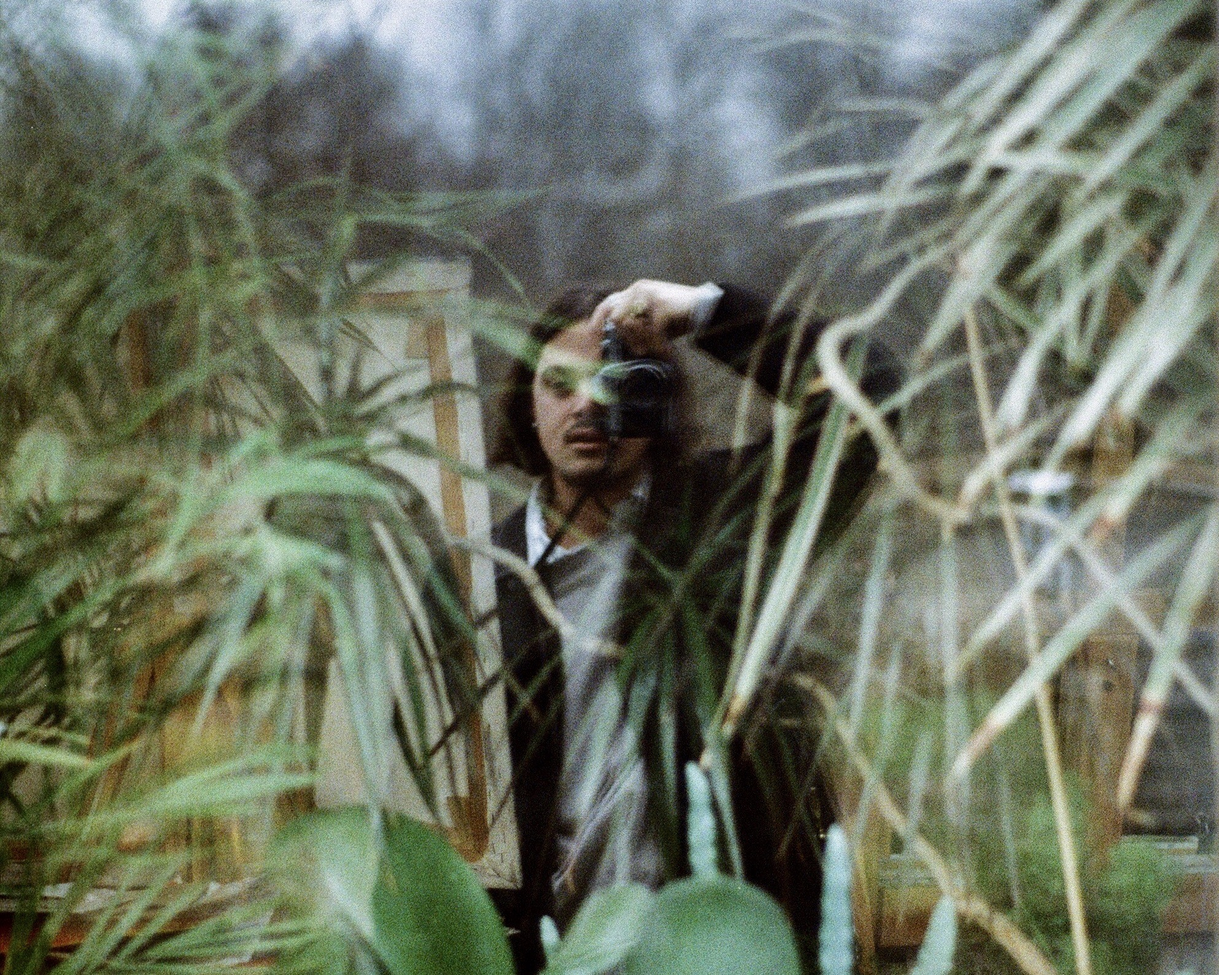
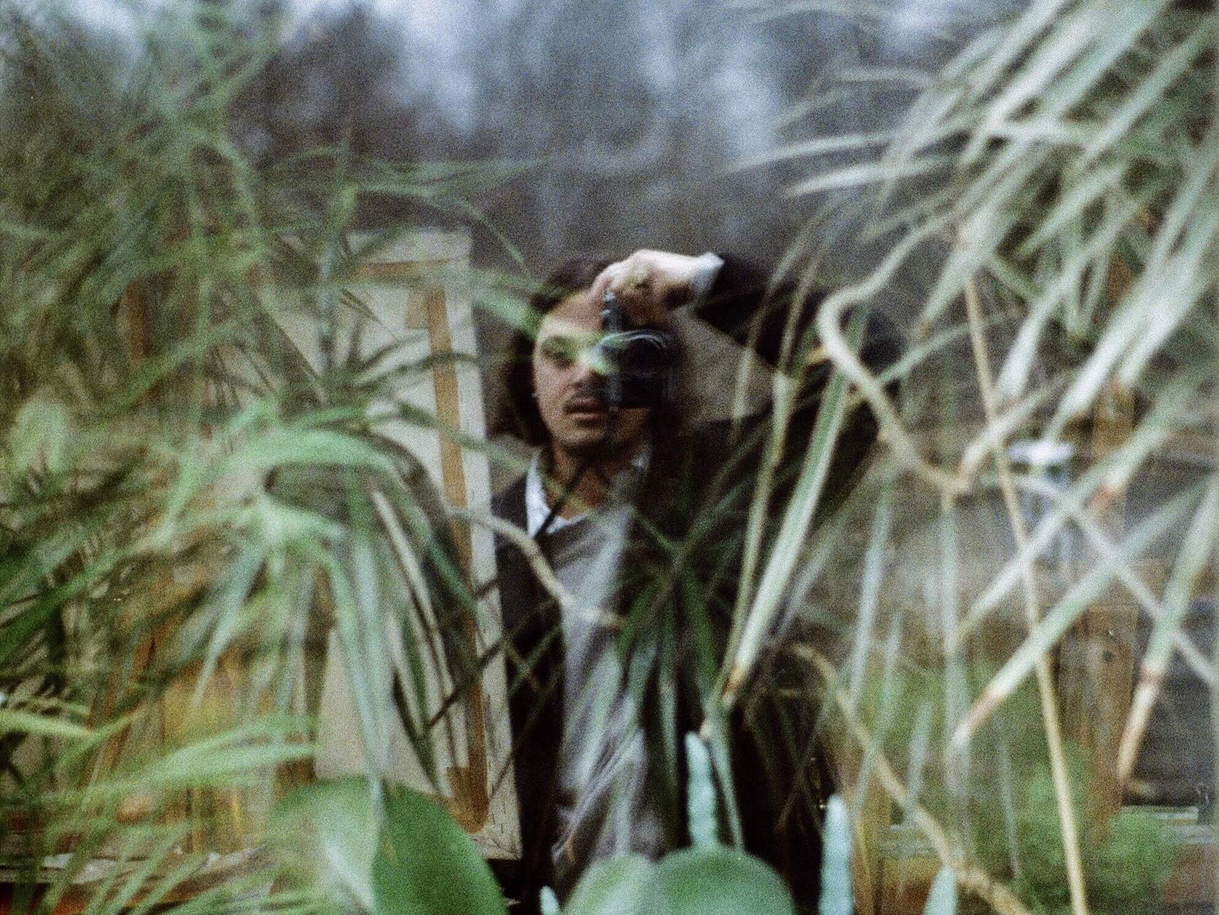
Fix: All pictures have been compressed to allow faster loading

diff --git a/gallery.html b/gallery.html
@@ -25,10 +25,9 @@
             <a href="index.html" class="navbar-brand brand-style d-block">
                 Shutter Speedi Photography</a>
 
-            <!-- navbar-dark required-->
-            <button class="navbar-toggler ml-auto navbar-dark" type="button" data-toggle="collapse"
+            <button class="navbar-toggler ml-auto navbar-dark" type="button" data-toggle="collapse" 
                 data-target="#navbarToggler" aria-controls="navbarToggler" aria-expanded="false"
-                aria-label="Toggle navigation">
+                aria-label="Toggle navigation">  <!-- navbar-dark required-->
                 <span class="navbar-toggler-icon"></span></button>
 
             <div class="collapse navbar-collapse" id="navbarToggler">
@@ -50,63 +49,63 @@
     <div class="container-fluid">
         <div class="row container-page bg-gray">
             <div class="col-6 col-sm-4 picture">
-                <a href="assets/images/craft.jpg" class="fancybox" data-fancybox="gallery1">
-                    <img src="assets/images/craft.jpg" width="100%" height="100%">
+                <a href="assets/images/craft.jpeg" class="fancybox" data-fancybox="gallery1">
+                    <img src="assets/images/craft.jpeg" width="100%" height="100%">
                 </a>
             </div>
             <div class="col-6 col-sm-4 picture">
-                <a href="assets/images/market.jpg" class="fancybox" data-fancybox="gallery1">
-                    <img src="assets/images/market.jpg" width="100%" height="100%">
+                <a href="assets/images/market.jpeg" class="fancybox" data-fancybox="gallery1">
+                    <img src="assets/images/market.jpeg" width="100%" height="100%">
                 </a>
             </div>
             <div class="col-6 col-sm-4 picture">
-                <a href="assets/images/fish.jpg" class="fancybox" data-fancybox="gallery1">
-                    <img src="assets/images/fish.jpg" width="100%" height="100%">
+                <a href="assets/images/fish.jpeg" class="fancybox" data-fancybox="gallery1">
+                    <img src="assets/images/fish.jpeg" width="100%" height="100%">
                 </a>
             </div>
             <div class="col-6 col-sm-4 picture">
-                <a href="assets/images/kid.jpg" class="fancybox" data-fancybox="gallery1">
-                    <img src="assets/images/kid.jpg" width="100%" height="100%">
+                <a href="assets/images/kid.jpeg" class="fancybox" data-fancybox="gallery1">
+                    <img src="assets/images/kid.jpeg" width="100%" height="100%">
                 </a>
             </div>
              <div class="col-12 col-sm-8 picture">
-                <a href="assets/images/lady.jpg" class="fancybox" data-fancybox="gallery1">
-                    <img src="assets/images/lady.jpg" width="100%" height="100%">
+                <a href="assets/images/lady.jpeg" class="fancybox" data-fancybox="gallery1">
+                    <img src="assets/images/lady.jpeg" width="100%" height="100%">
                 </a>
             </div>
             <div class="col-6 col-sm-4 picture">
-                <a href="assets/images/sir.jpg" class="fancybox" data-fancybox="gallery1">
-                    <img src="assets/images/sir.jpg" width="100%" height="100%">
+                <a href="assets/images/sir.jpeg" class="fancybox" data-fancybox="gallery1">
+                    <img src="assets/images/sir.jpeg" width="100%" height="100%">
                 </a>
             </div>
             <div class="col-6 col-sm-4 picture">
-                <a href="assets/images/kiddo.jpg" class="fancybox" data-fancybox="gallery1">
-                    <img src="assets/images/kiddo.jpg" width="100%" height="100%">
+                <a href="assets/images/kiddo.jpeg" class="fancybox" data-fancybox="gallery1">
+                    <img src="assets/images/kiddo.jpeg" width="100%" height="100%">
                 </a>
             </div>
             <div class="col-6 col-sm-4 picture">
-                <a href="assets/images/cigar.jpg" class="fancybox" data-fancybox="gallery1">
-                    <img src="assets/images/cigar.jpg" width="100%" height="100%">
+                <a href="assets/images/cigar.jpeg" class="fancybox" data-fancybox="gallery1">
+                    <img src="assets/images/cigar.jpeg" width="100%" height="100%">
                 </a>
             </div>
             <div class="col-6 col-sm-4 picture">
-                <a href="assets/images/dj.JPG" class="fancybox" data-fancybox="gallery1">
-                    <img src="assets/images/dj.JPG" width="100%" height="100%">
+                <a href="assets/images/dj.jpeg" class="fancybox" data-fancybox="gallery1">
+                    <img src="assets/images/dj.jpeg" width="100%" height="100%">
                 </a>
             </div>
             <div class="col-12 col-sm-8 picture">
-                <a href="assets/images/aaron.JPG" class="fancybox" data-fancybox="gallery1">
-                    <img src="assets/images/aaron.JPG" width="100%" height="100%">
+                <a href="assets/images/aaron.jpeg" class="fancybox" data-fancybox="gallery1">
+                    <img src="assets/images/aaron.jpeg" width="100%" height="100%">
                 </a>
             </div>
             <div class="col-6 col-sm-8 picture ">
-                <a href="assets/images/sea.jpg" class="fancybox" data-fancybox="gallery1">
-                    <img src="assets/images/sea.jpg" width="100%" height="100%">
+                <a href="assets/images/sea.jpeg" class="fancybox" data-fancybox="gallery1">
+                    <img src="assets/images/sea.jpeg" width="100%" height="100%">
                 </a>
             </div>
             <div class="col-6 col-sm-4 picture">
-                <a href="assets/images/sri.jpg" class="fancybox" data-fancybox="gallery1">
-                    <img src="assets/images/sri.jpg" width="100%" height="100%">
+                <a href="assets/images/sri.jpeg" class="fancybox" data-fancybox="gallery1">
+                    <img src="assets/images/sri.jpeg" width="100%" height="100%">
                 </a>
             </div>
         </div>

diff --git a/assets/css/style.css b/assets/css/style.css
@@ -17,7 +17,7 @@ body {
 
 
 .container-fluid {
-    padding-left: 0;   /* to avoid default padding */
+    padding-left: 0;   /* to avoid default padding from bootstrap */
     padding-right: 0;
 }
 
@@ -87,7 +87,6 @@ body {
     font-weight: 300;
 }
 
-
 .brand-style {           
     margin: 7px auto 0;
     padding-top: 5px;
@@ -95,7 +94,6 @@ body {
     border-bottom: 1px solid #9ed1be;
     color: #fafafa;
 }
-
 
 .brand-style:hover {
     color: #fafafa;  /*to override :hover change of color inculded in navbar-brand*/
@@ -139,7 +137,6 @@ body {
     position: absolute;
     left: 50%;
     margin-left: -15px; /* half the size of the icon to center correctly */
-
     top: 90%;
 }
 
@@ -155,6 +152,7 @@ body {
     font-size: 25px;
     font-weight: 300;
 }
+
 /*------*/
 
 .container-info {
@@ -244,7 +242,7 @@ body {
 }
 
 
-/*---------------------------------------- GALLERY */
+/*---------------------------------------- GALLERY  */
 
 .picture {
     padding: 2px;
@@ -339,12 +337,16 @@ body {
         margin-top: 30px;
     }
 
+    .hint i {
+        top: 85%;  /* To prevent the icon from disappearing under mobile screen bottom navbar */
+    }
+
     .container-page {
         padding-top: 56px;
     }
      
     .picture img {
-        height: 50vw;        /* to keep pictures' size ratio in small screen viewports */
+        height: 50vw;        /* To keep pictures' size ratio in small screen viewports */
     }
 
     .container-form {
@@ -353,7 +355,7 @@ body {
 
     .contact-item .key, 
     .contact-item .value {
-    display: block;              /* To prevent contact.html's .values from overflowing the screen in mobile screen size */
+    display: block;              /* To prevent contact.html's ".values" from overflowing the screen in mobile screen size */
     }
 }
  

diff --git a/contact.html b/contact.html
@@ -146,7 +146,6 @@
             </div>
         </div>
     </footer>
-
     <script src="https://code.jquery.com/jquery-3.2.1.slim.min.js"></script>
     <script src="https://cdnjs.cloudflare.com/ajax/libs/popper.js/1.12.9/umd/popper.min.js"></script>
     <script src="https://maxcdn.bootstrapcdn.com/bootstrap/4.0.0/js/bootstrap.min.js"></script>

diff --git a/README.md b/README.md
@@ -1,6 +1,6 @@
 # **Shutter Speedi Photography** #
 
-This is the official webpage of Shutter Speedi, a London-based photographer. The site is simple, straightforword and offers any visitor the opportunity to explore the artist's professional background (in the **Home** page) and take a look at some of his best shots in the website's **Gallery** (accessible through the navbar).
+This is the official webpage of Shutter Speedi (Giacomo Spedicato), a London-based photographer. The site is simple, straightforword and offers any visitor the opportunity to explore the artist's professional background (in the **Home** page) and take a look at some of his best shots in the website's **Gallery** (accessible through the navbar).
 
 For those interested in booking a photoshoot or simply contacting the photographer, the website offers a **Contact** section (also accessible through the navbar) which provides both the artist's contact details and a form, meant to facilitate the process, which can be filled in by the users to get in touch the photographer directly from the website. 
 
@@ -9,7 +9,7 @@ The business goals for the website:
 * To build brand awareness 
 * To boost the artist's image and credibility with a clean and professional self-hosted website 
 * To provide examples of the artist's style of photography
-* Drive sales by facilitating user-provider communication in the contact section
+* Attract clients by facilitating user-provider communication in the contact section
 
 Customer goals for the webiste:
 
@@ -22,44 +22,100 @@ Customer goals for the webiste:
 
 ---
 
-### Target client ###
+* ### Target client ###
 
-**The target client for this business is:**
+  * **The target client for this business is:**
 
-* English speaking
-* Likely young (between 18 - 35)
-* Lives in England.
+     1. English speaking
+     1. Most likely between 18 - 35 years old
+     1. Lives in England
 
-**Visitors would be searching for:**
+  * **Visitors would be searching for:**
 
-* A photographer to hire for a photoshoot or to collaborate with for a project. 
+     * A photographer to hire for a photoshoot or to collaborate with for a project
 
-**This webiste is the best way to help them achieve their goal for the following reasons:**
+   * **This webiste is the best way to help them achieve their goal for the following reasons:**
 
-* It is simply structurted and easy to navigate.
-* Provides the client with easy steps to follow to absorb essential information.
-* The amount of information provided is minimized to contain only the essential.
-* Provides a path to fullful the goal of the website: getting in touch with the artist. 
+     1. It is simply structurted and easy to navigate.
+     1. Provides the client with easy steps to follow to absorb essential information
+     1. The amount of information provided is minimized to contain only the essential
+     1. Provides a path to fullful the goal of the website: getting in touch with the artist
 
-**Client stories:**
+* ### User stories ###
 
-* As a new visitor to the website:
-  * I want to easily navigate the site.
-  * I want learn about the artist and his credentials.
-  * I want view this artist's gallery to evaluate his skills.
+    * As a new visitor to the website:
+      1. I want to easily navigate the site
+      1. I want learn about the artist and his credentials
+      1. I want view this artist's gallery to evaluate his skills
 
-* As a potential client or interested observer:
-  * I want to know whether other clients have been satisfied with his work and the service received.
-  * I want the artist's contact info and an easy to fill in contact form, to get in touch with him directly from the website.
-  * I want to follow the artist on social media and be updated about any news. 
+    * As a potential client or interested observer:
+      1. I want to know whether other clients have been satisfied with his work and the service received
+      1. I want the artist's contact info and an easy to fill in contact form, to get in touch with him directly from the website
+      1. I want to follow the artist on social media and be updated about any news
 
+* ### Design ### 
+
+  * **Colour Scheme**
+    * The three main colors are: Aqua, Swamp Green and Gray
+
+  * **Typography**
+    * The "Roboto Mono" font is the main font used throughout the whole website with "Sans Serif" as the fallback font. "Roboto Mono" has been selected as it fits with the retro style of the artist's photographs and the general look of the website. "Roboto" has also been used in the Quotes section in the Homepage
+
+  * **Imagery**
+    * The Hero image in the home page was selected as it portrais the artist himself, is eye-catching and fits with the color scheme of the page. Same applies for the background image selected for the Contact page
 
 ## Features ##
 
+ * All Pages:
+   * Responsive navbar with dropdown toggle for mobile screen sizes. The navbar contains: webistes' logo (which brings user back to Home page when clicked) and links to Home, Gallery and Contact page
+   * Footer featuring 3 social media links/icons and copyright information
+
+ * Homepage:
+   * Fullscreen height hero-image with an "arrow" icon placed on the bottom linking to the artist's "About me" section
+   * "About me" section with info on the artist's background
+   * "Quotes" section showing quotes' from two of the artist's followers on social media 
+
+* Gallery page:
+   * Responsive gallery: with images displayed on 1 to 2 columns for mobile screen sizes and 2 to 3 columns for larger screen sizes.
+   * A Fancybox slideshow: which activates by clinking on any of the pictures from the gallery and allows users to see the images in full, zoom, and slide through the gallery by clicking on the arrows placed on the right and left sides of the screen.
+
+* Contact page:
+   * Address, phone number and email address of the artist
+   * Contact form which requests client name, email and provides a text-area to be filled in with any specific request by the user. At the bottom of the form: a submit button.
 ---
 
 ## Technology Used ##
 
+### Languages Used ###
+
+* HTML5
+* CSS3
+
+### Frameworks, Libraries & Programs Used ###
+
+1. Bootstrap 4.6.0
+   * Used to assist with the responsiveness and styling of the website.
+
+2. Google Fonts 
+   * Used to import the 'Roboto Mono' and 'Roboto' font into the style.css file which is used on all pages throughout the project.
+
+3. Font Awesome 
+   * Used on all pages throughout the website to add icons for aesthetic and UX purposes.
+
+4. Fancybox
+   * Used for a gallery modal popup to slide through gallery images
+
+5. jQuery
+   * jQuery came with Bootstrap to make the navbar responsive. Also required for Fancybox gallery modal to function.
+
+6. Git 
+   * Used for version control by utilizing the Gitpod terminal to commit to Git and Push to GitHub.
+
+7. GitHub
+   * Used to store the projects code pushed from Git.
+
+8. Balsamiq
+   * Used to create the wireframes during the website's design process.
 ---
 
 ## Testing ##
